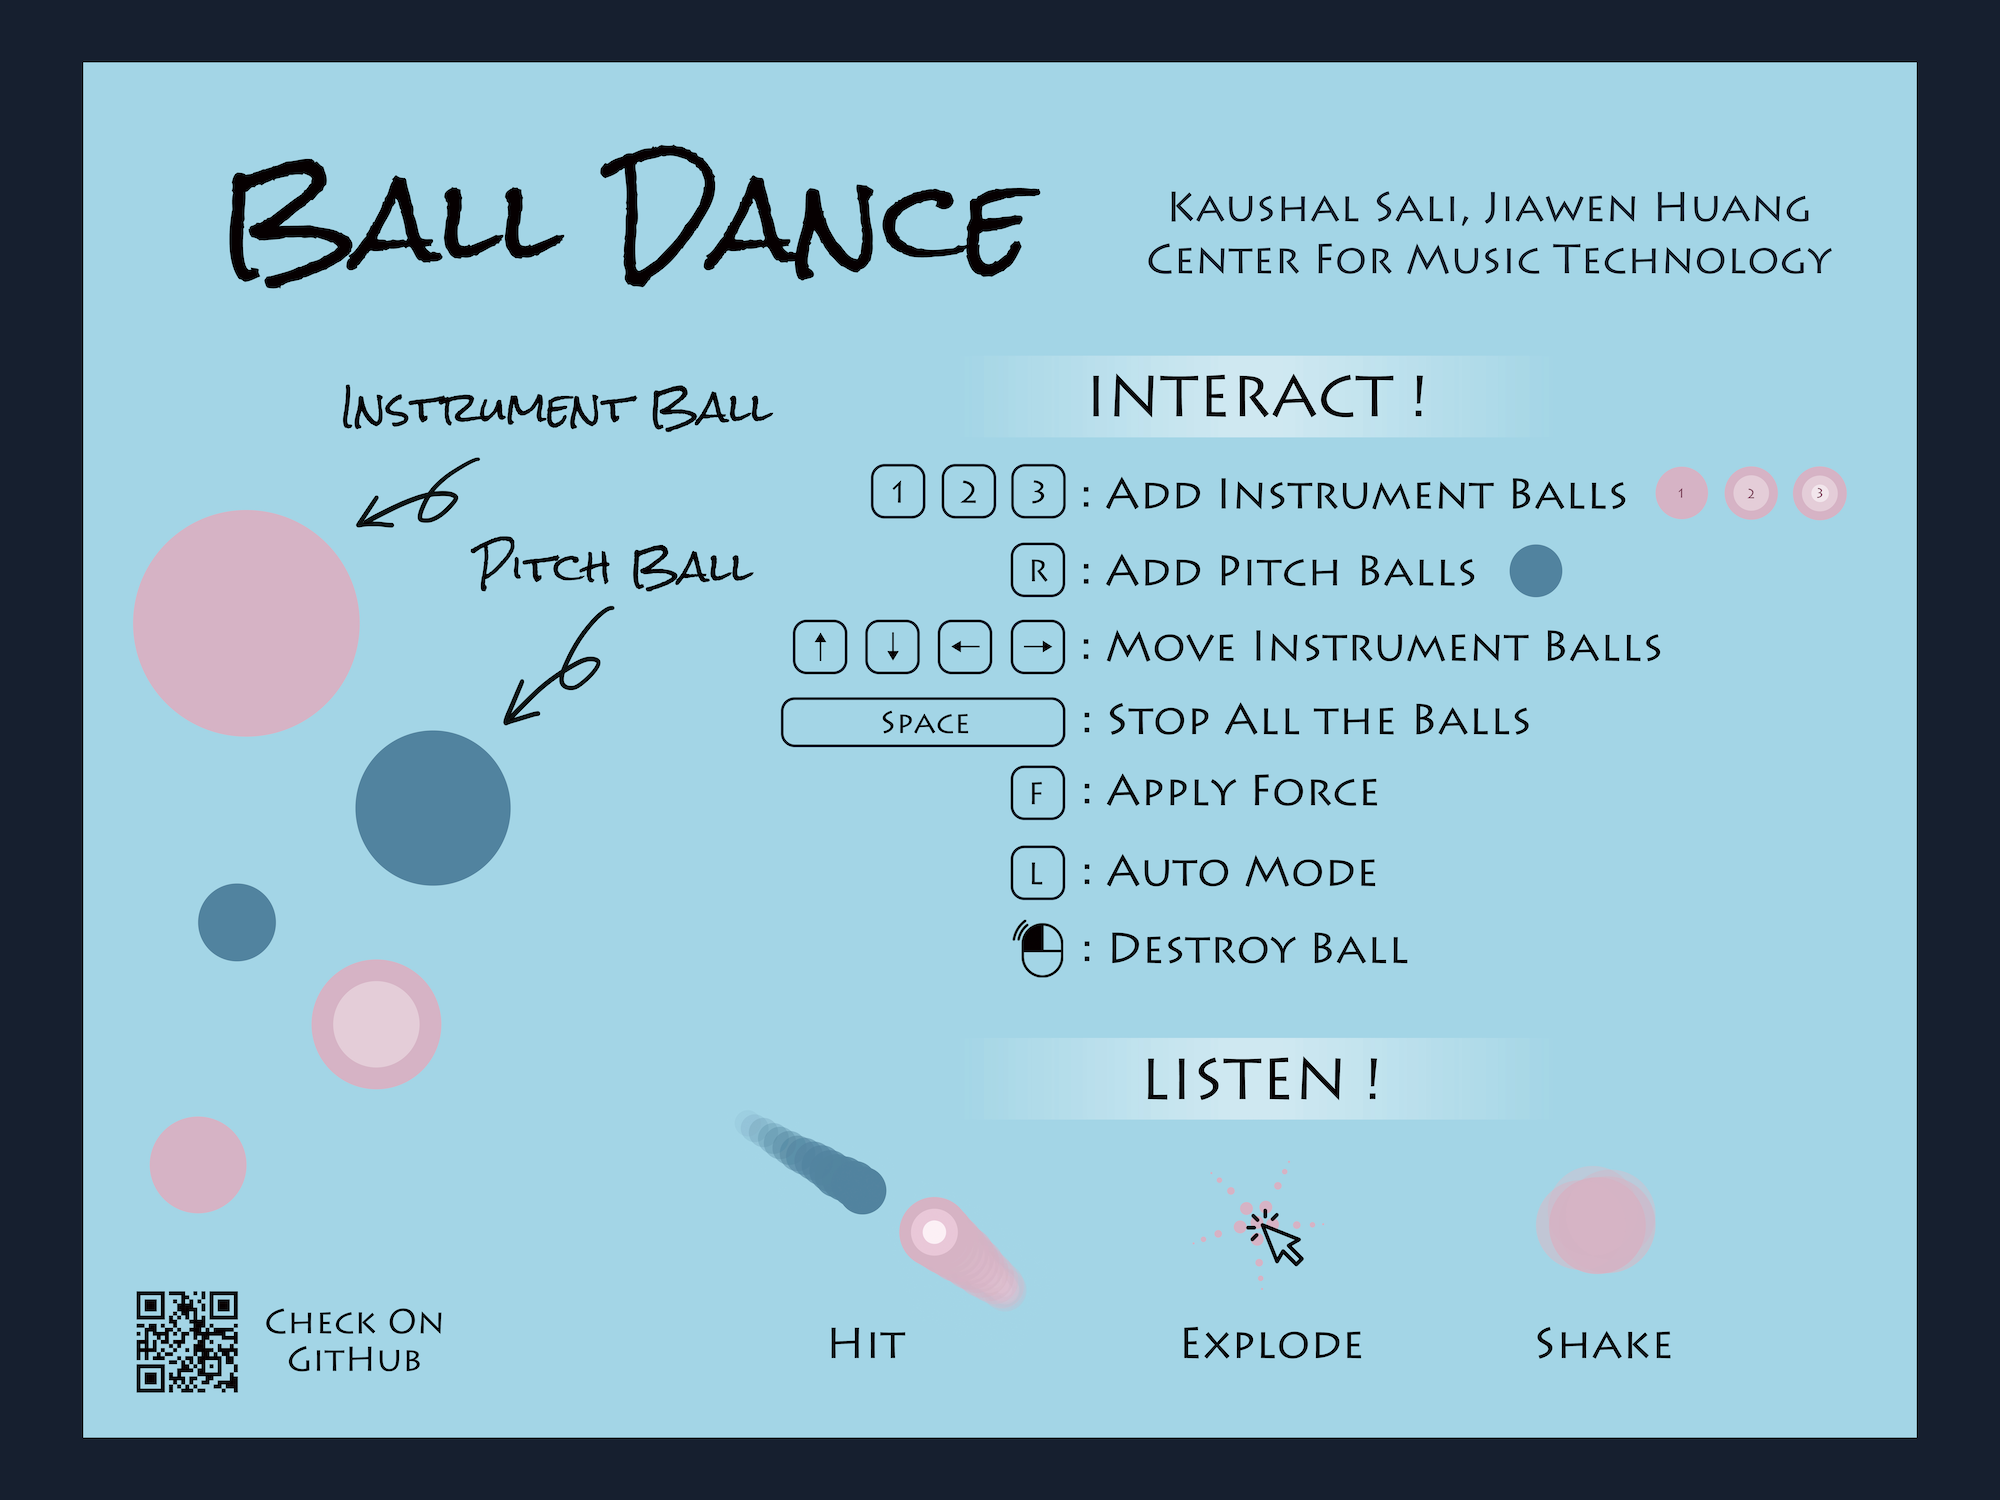
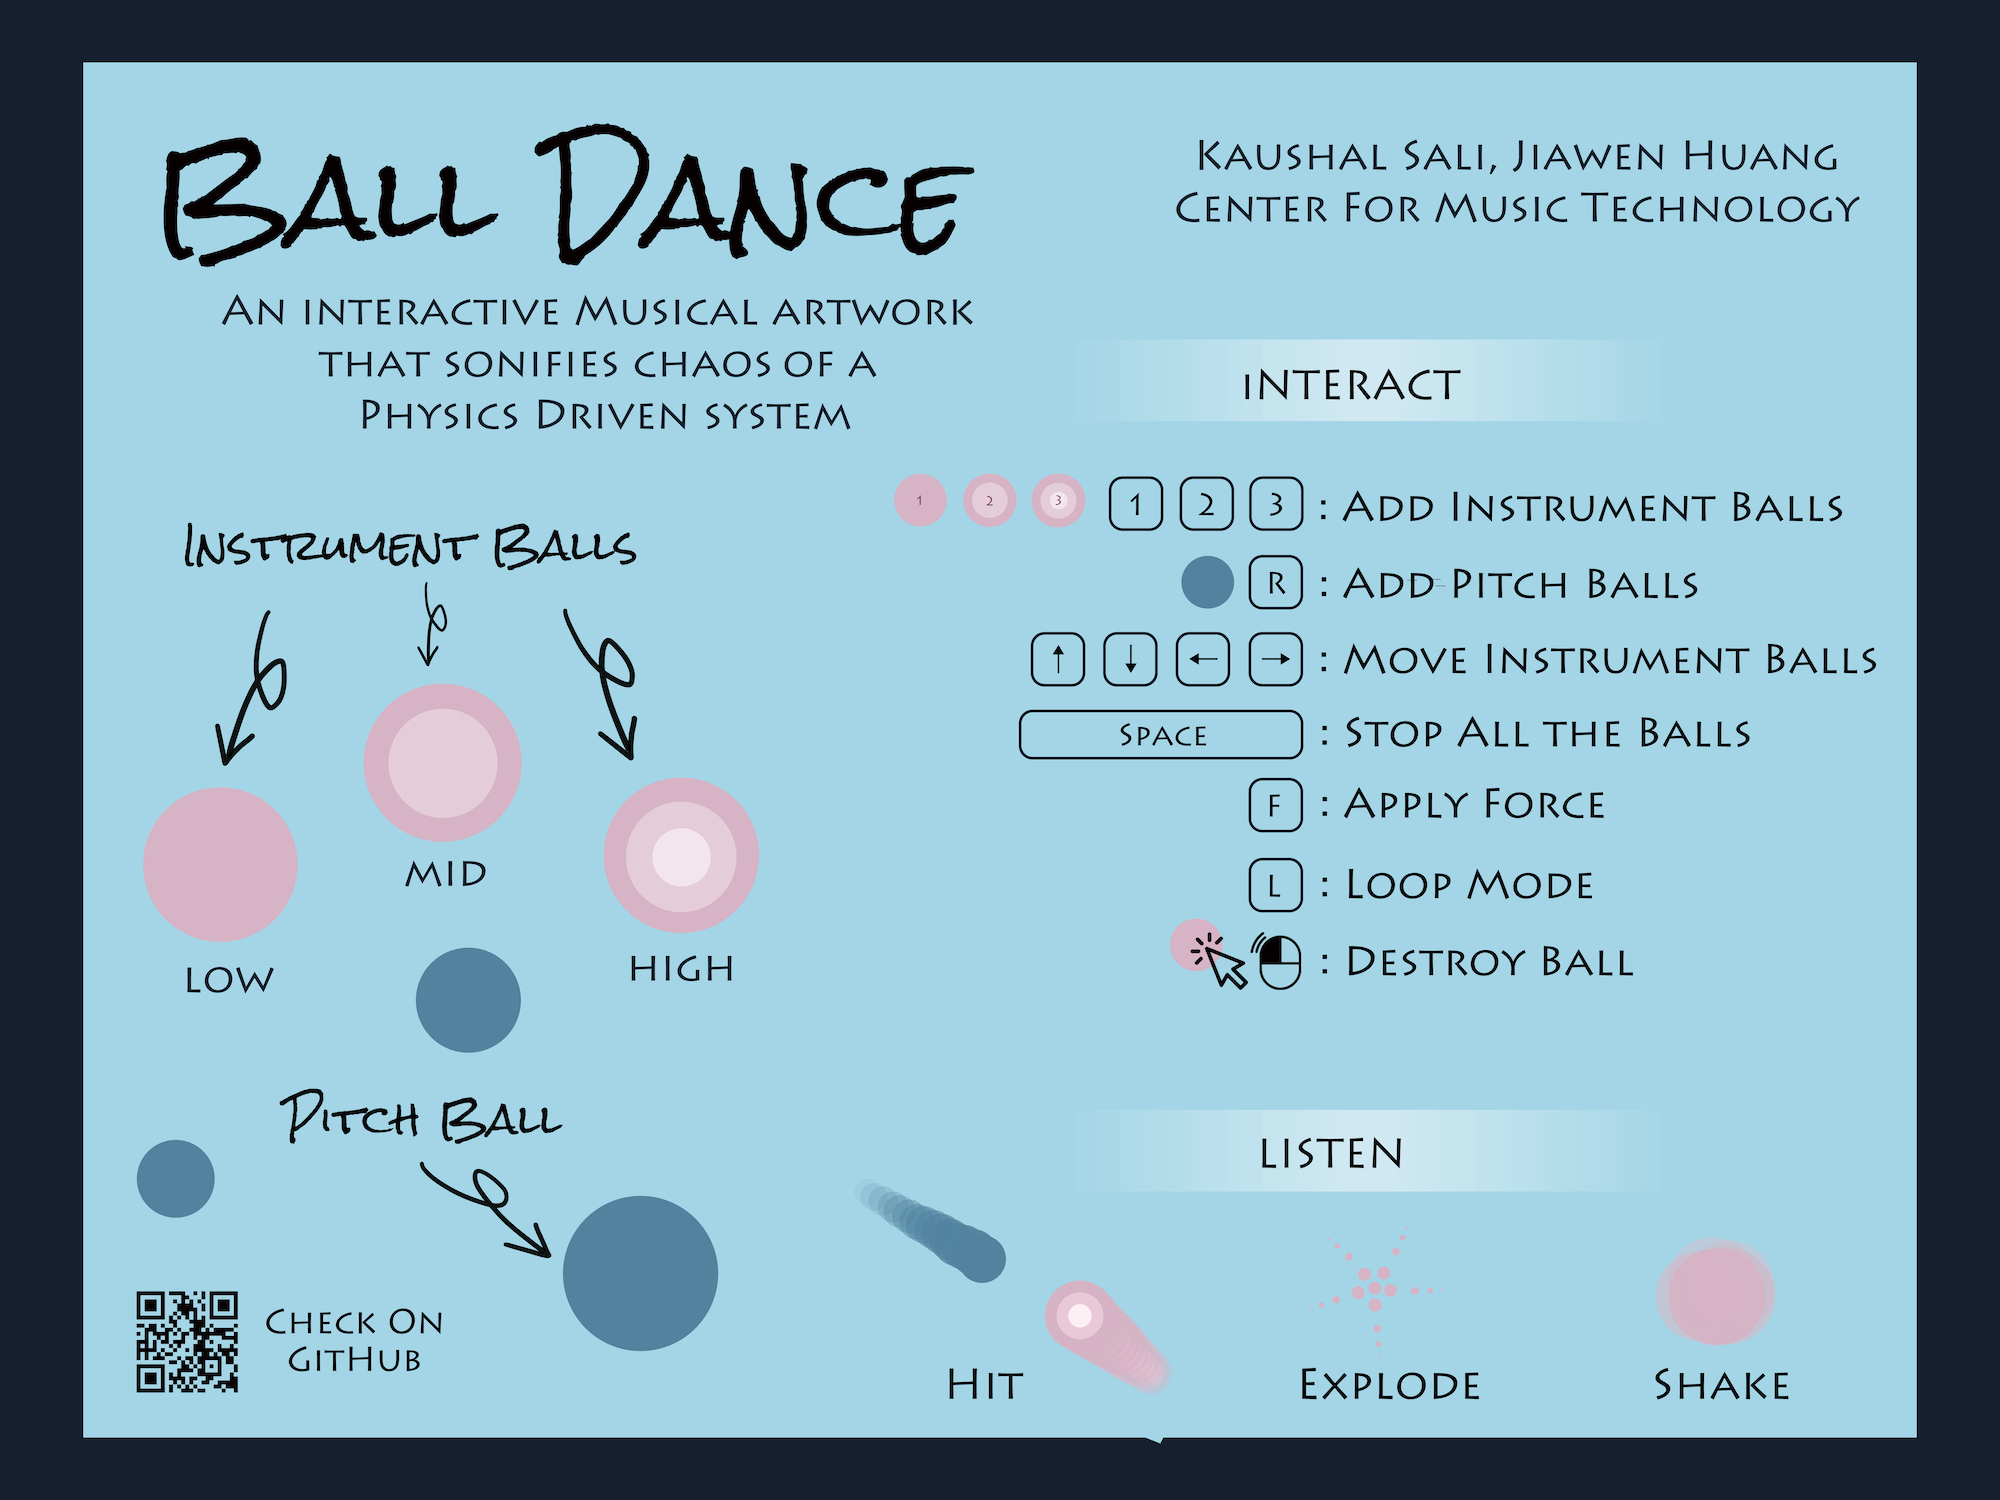
Updated help image added. Loop constants updated.

diff --git a/src/constants.js b/src/constants.js
@@ -31,6 +31,6 @@ const MAX_LIFE = 200;
 
 const LOOP_INTERVAL = 240;  //milliseconds
 const LOOP_MIN_REG_BALLS = 5;
-const LOOP_MIN_TRIG_BALLS = 3;
-const LOOP_NUM_REG_BALLS_TO_ADD= 2;
-const LOOP_NUM_TRIG_BALLS_TO_ADD= 3;
+const LOOP_MIN_TRIG_BALLS = 6;
+const LOOP_NUM_REG_BALLS_TO_ADD= 5;
+const LOOP_NUM_TRIG_BALLS_TO_ADD= 8;
